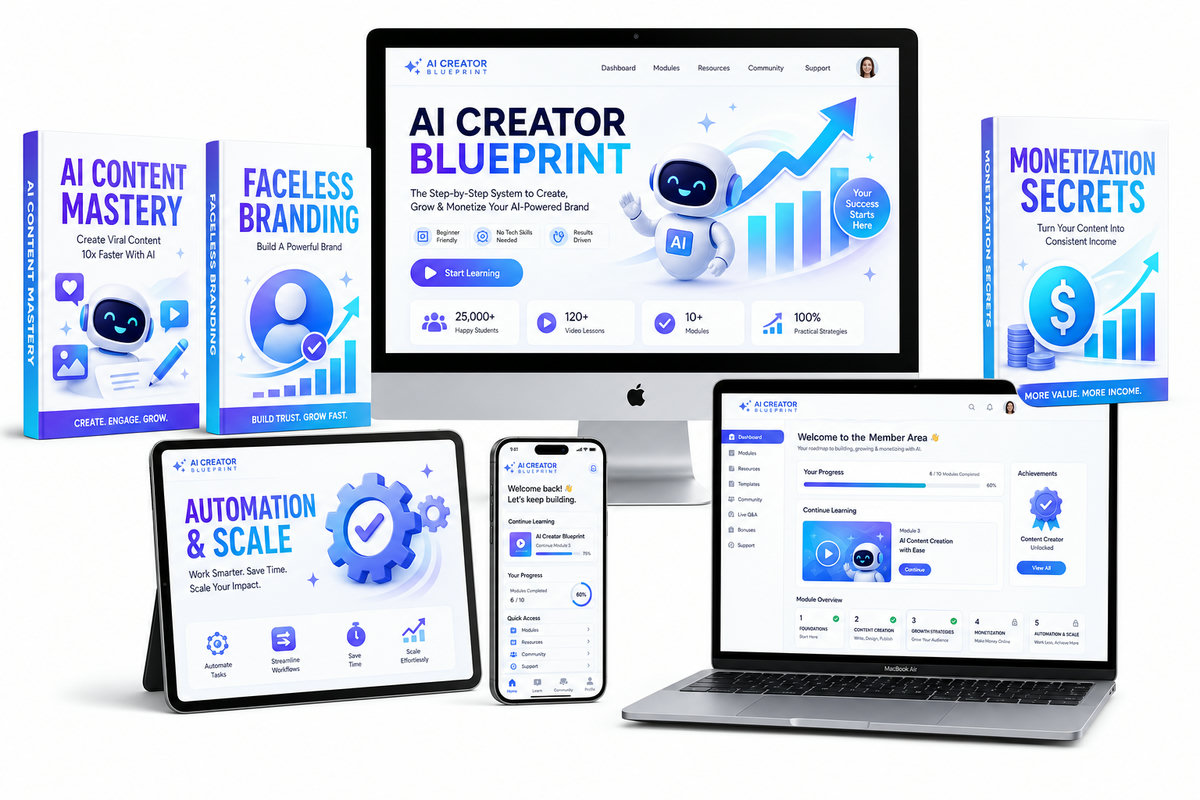
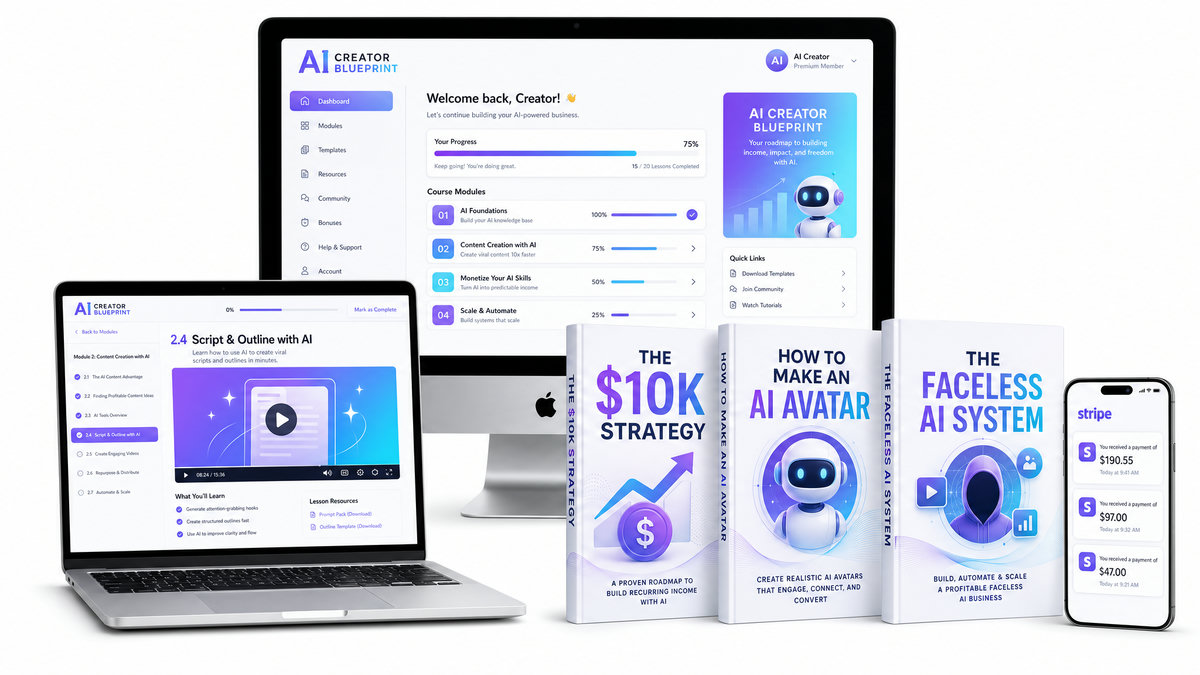
nova: swap in v2 compilation bundle (ebooks + members area + stripe phone)

diff --git a/ffc-email-assets/nova-preview.html b/ffc-email-assets/nova-preview.html
@@ -399,7 +399,7 @@
   <div class="wrap center">
     <span class="eyebrow">The 10‑Day Challenge</span>
     <h2 class="sec">Copy &amp; Paste This Exact System For Yourself</h2>
-    <img class="bundleimg" src="https://facelessreelslab-assets.onrender.com/ai-creator-bundle.jpg?v=1" alt="The AI Creator Blueprint: courses, ebooks and member area across laptop, tablet and phone" loading="lazy" style="display:block;width:100%;max-width:440px;height:auto;margin:26px auto 4px">
+    <img class="bundleimg" src="https://facelessreelslab-assets.onrender.com/ai-creator-bundle.jpg?v=2" alt="The AI Creator Blueprint: ebooks, member area and Stripe payments across iMac, laptop and phone" loading="lazy" style="display:block;width:100%;max-width:680px;height:auto;margin:26px auto 4px">
 
     <div class="steps" style="text-align:left">
       <div class="step"><span class="n">1</span><h3>What we'll be doing 📱</h3><p>We'll build your faceless AI account and set you up to sell digital products — 10–20 minutes a day, on your own schedule, from your couch.</p></div>
